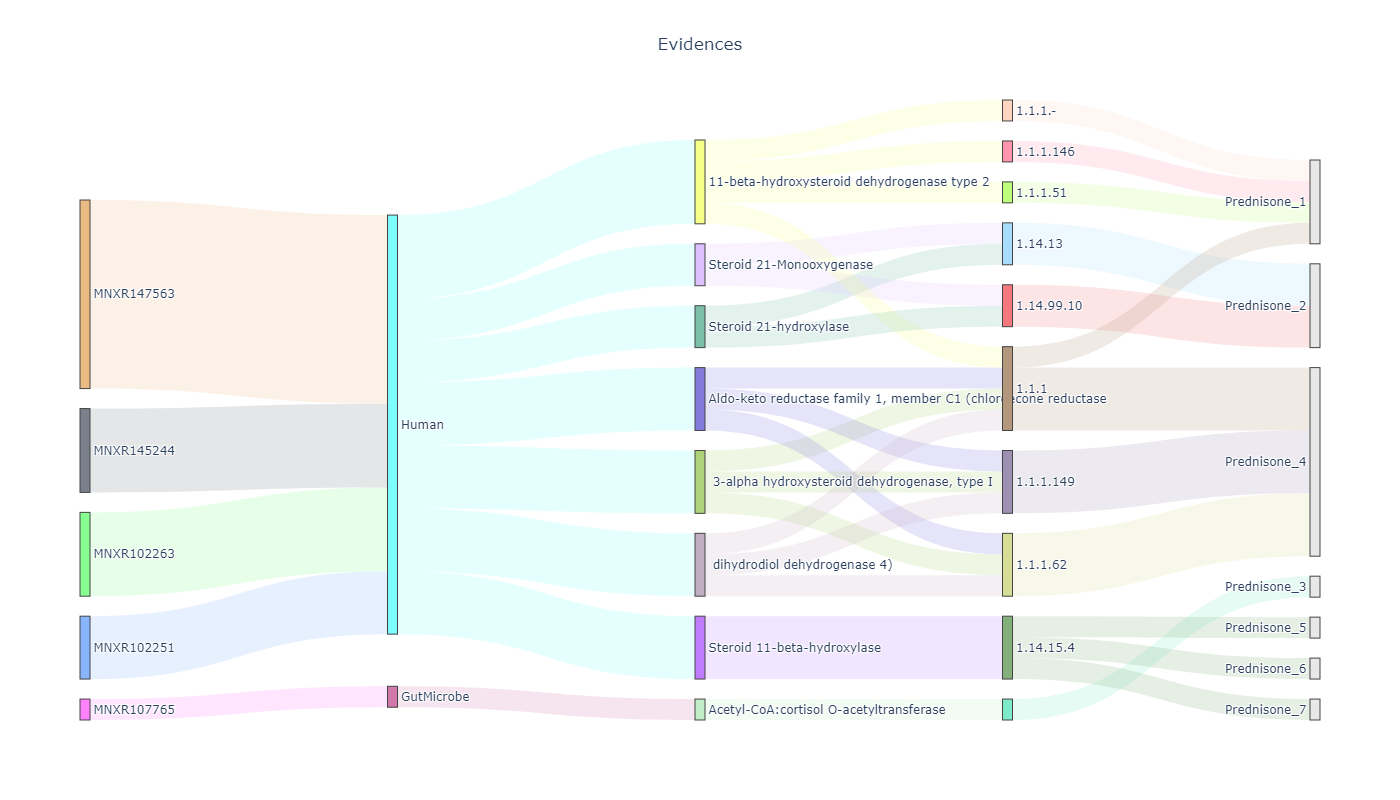
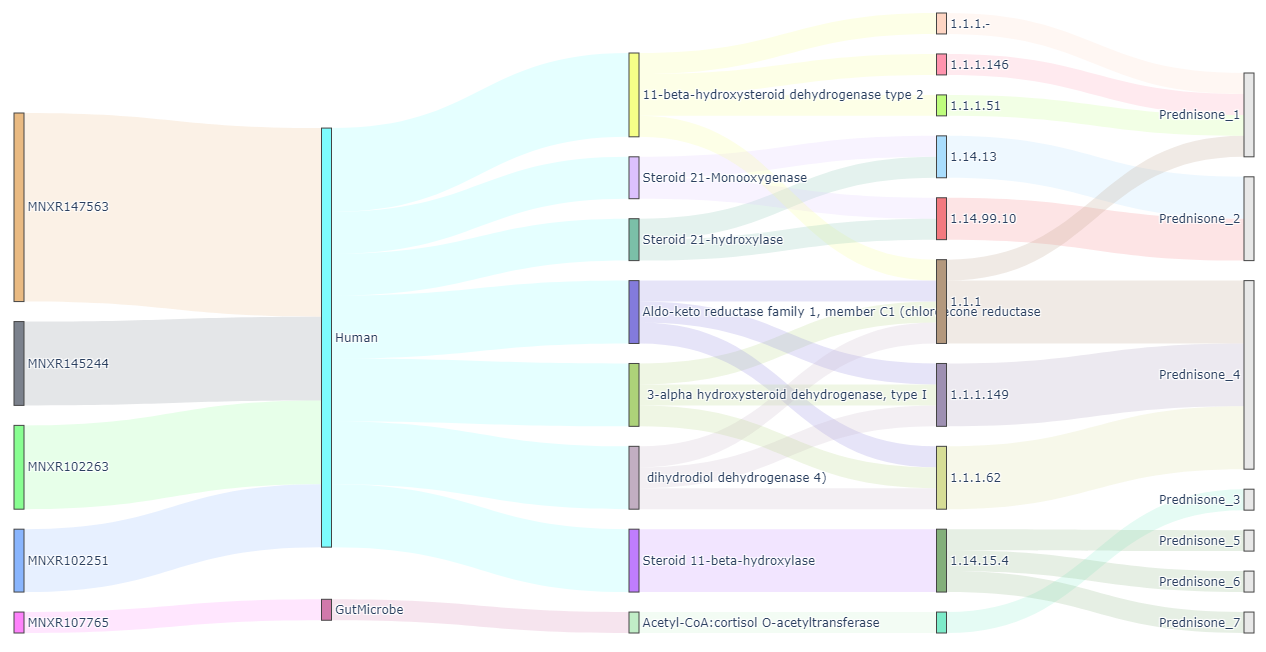
Examples added to README

Changed region(s): [[0.0, 0.0307, 1.0, 0.9816], [0.7393, 0.0, 0.7701, 0.0613]]

diff --git a/README.md b/README.md
@@ -1,6 +1,6 @@
 <img src="img/logo.png"  width="220" height="200">
 
-[**Description**](#description) | [**Requirements**](#requirements) | [**Installation**](#installation) | [**Citation**](#citation) | [**License**](#license) | [**Disclaimer**](#disclaimer)
+[**Description**](#description) | [**Requirements**](#requirements) | [**Installation**](#installation) | [**Examples**](#examples) | [**Citation**](#citation) | [**License**](#license) | [**Disclaimer**](#disclaimer)
 
 ## Description
 
@@ -14,7 +14,7 @@
 
 > This repository contains examples as Jupyter Notbooks showing the capabilities of this library.
 
-Question about usage or troubleshooting? Please leave a comment here
+Question about usage or troubleshooting? Please leave a comment in the discussion section of this repo
 
 ## Requirements
 
@@ -48,6 +48,16 @@ pip install MicrobeRX ## TODO
 
 > [MicrobeRX Colab]()
 
+
+## Examples
+
+> **Predicition scoring** <img src="img/scoring.png"  width="300" height="300">
+> **Metabolic accesibility** <img src="img/accesibility.png"  width="300" height="300">
+
+> **Molecular descriptors** <img src="img/descriptors.png"  width="300" height="300">
+> **Isotopic mass** <img src="img/mass.png"  width="300" height="300">
+  
+> **Relationships** <img src="img/sankey.png"  width="900" height="300">
 
 ## Citation
 
